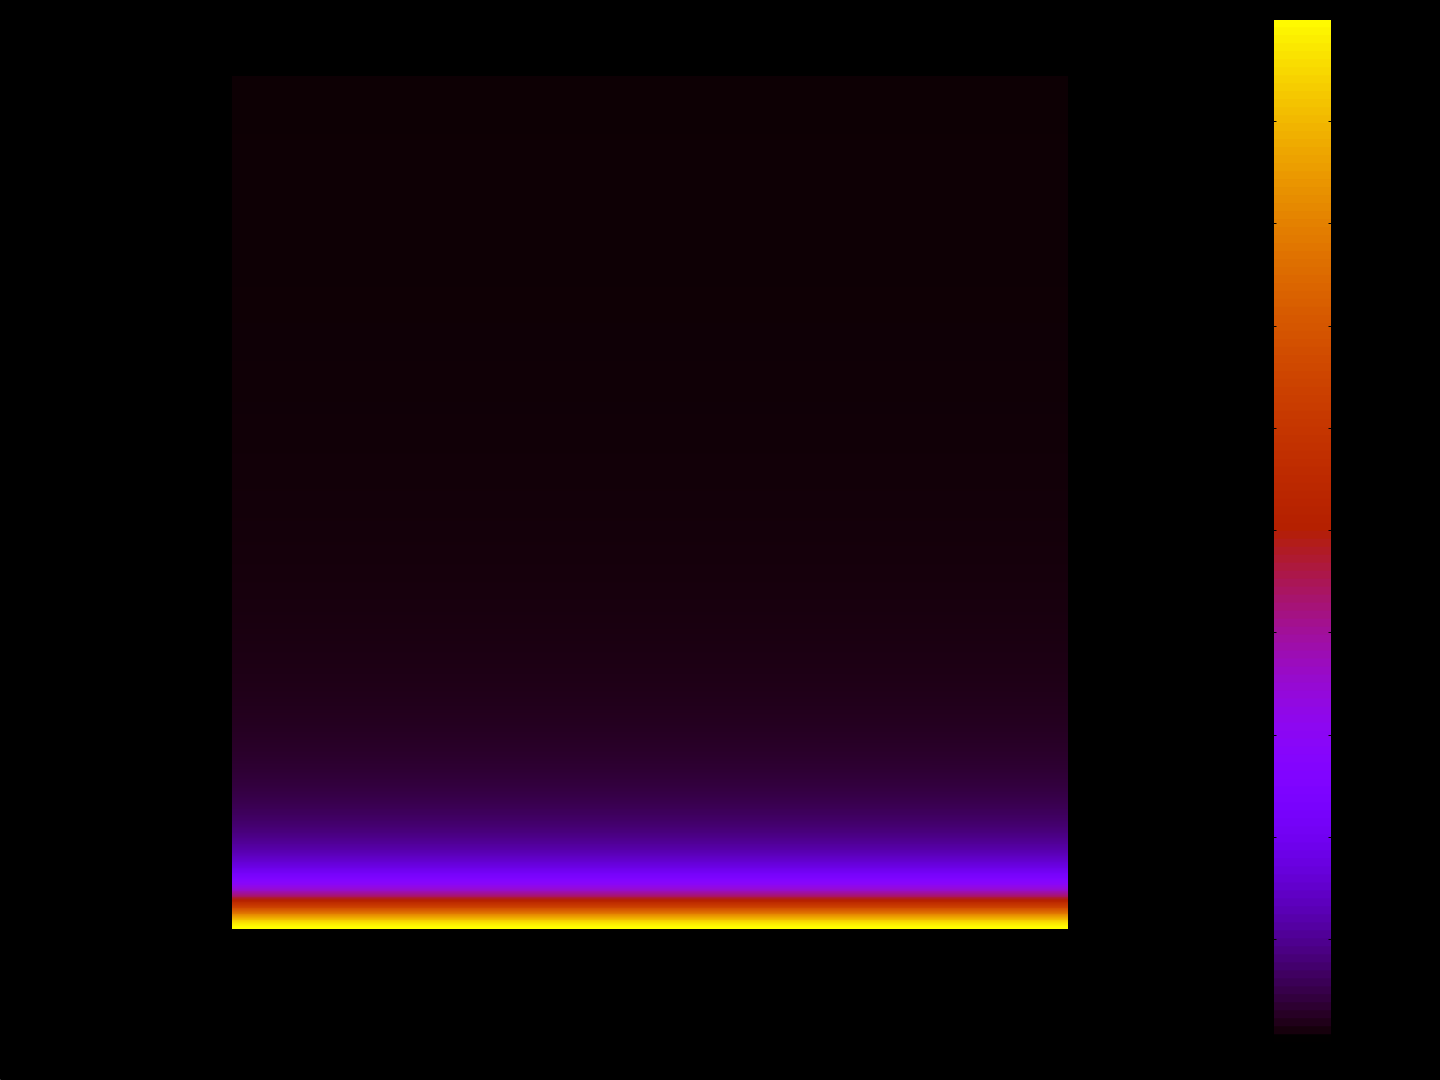
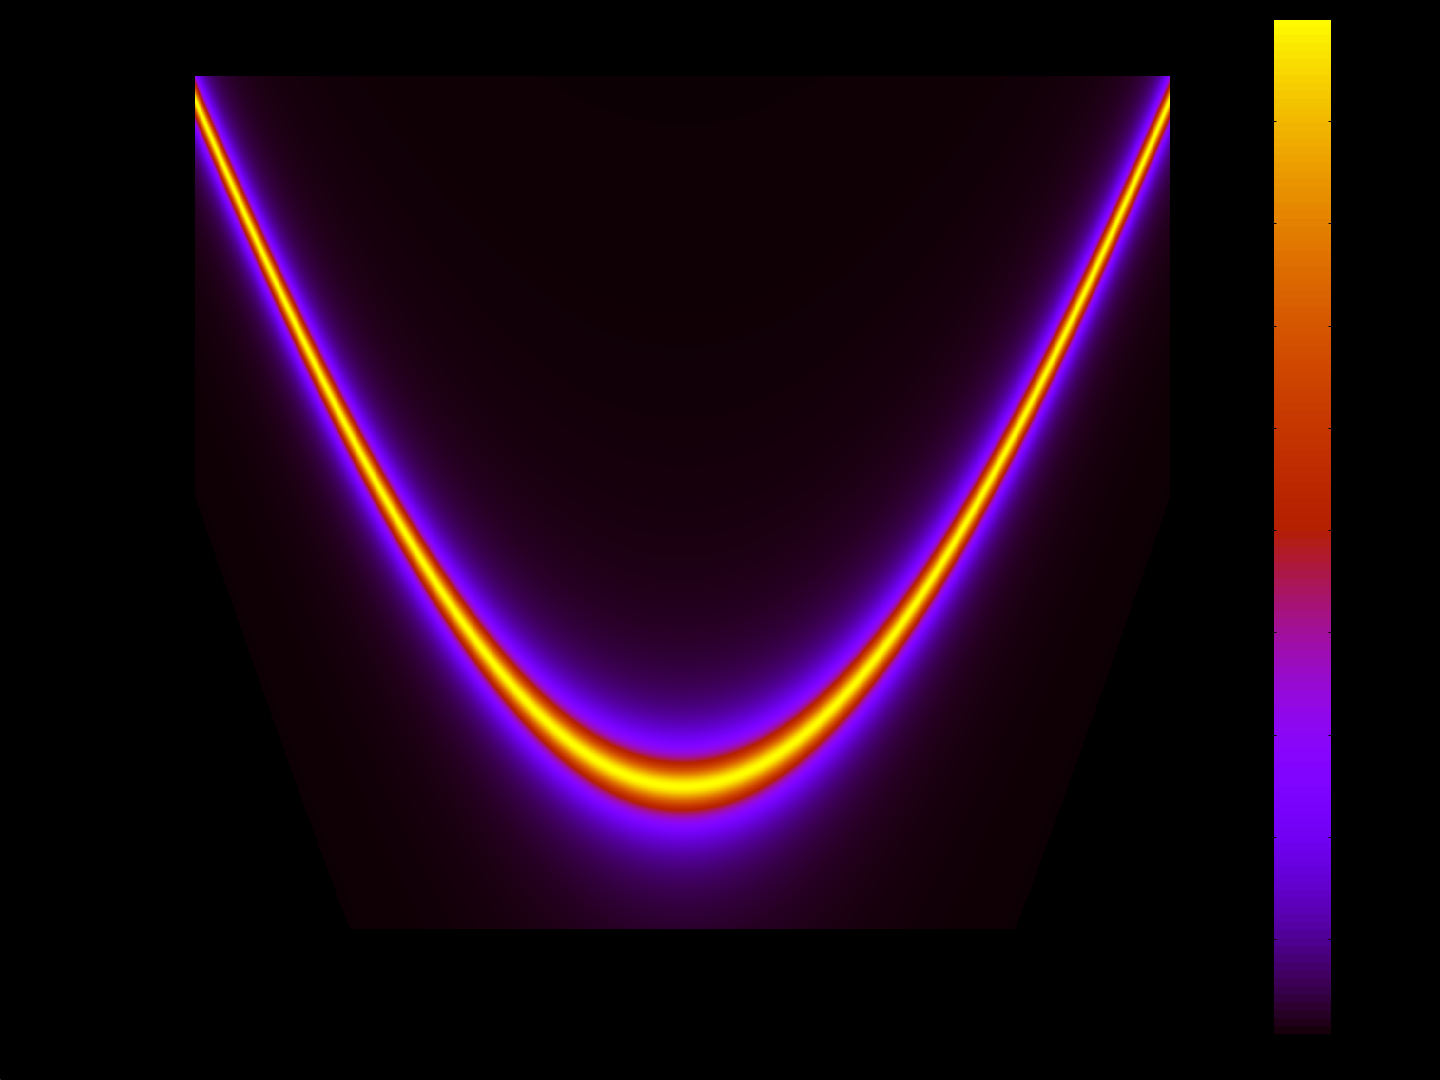
Started binning integration

Changed region(s): [[0.125, 0.0611, 0.8125, 0.8861]]

diff --git a/src/main.rs b/src/main.rs
@@ -7,32 +7,57 @@ fn main() {
         l_c: 0.0,
         c: 1.0 / 137.0,
         r: 0.9,
-        n_w_bins: 1000,
-        n_q_bins: 1000
+        n_w: 2000,
+        n_q: 2000,
+        n_w_bins: 200,
+        d_theta: 2.0 * PI,
+        q_range: (0.0,150.0),
+        w_range: (0.9, 1.5)
     };
 
     let w_0 = 1.0;
     let q_0 = w_0/prm.c;
     prm.l_c  = 2.0 * PI / q_0;
 
-    let omegas = Array1::linspace(1.0, 1.5,prm.n_w_bins);
-    let q_pars = Array1::linspace(0.0, 1.0, prm.n_q_bins);
+    let omegas = Array1::linspace(prm.w_range.0, prm.w_range.1,prm.n_w);
+    let q_pars = Array1::linspace(prm.q_range.0, prm.q_range.1, prm.n_q);
 
-    let mut dispersion: Array2<f64> = Array2::zeros((prm.n_w_bins,prm.n_q_bins));
+    let mut disp: Array2<f64> = Array2::zeros((prm.n_q,prm.n_w));
 
-    dispersion.indexed_iter_mut().for_each(|(ind, val)| {
-        let q_par = q_pars[ind.1];
-        let omega = omegas[ind.0];
+    disp.indexed_iter_mut().for_each(|(ind, val)| {
+        let q_par = q_pars[ind.0];
+        let omega = omegas[ind.1];
 
         *val = enhancement_function(omega, q_par, &prm);
     });
 
-    println!("test: {}", enhancement_function(1.0, 0.0, &prm));
+    let dispersion = disp.t().to_owned();
 
-    // _plot_disp(dispersion, omegas, q_pars);
+    println!("test: {}", enhancement_function(1.0, 100.0, &prm));
+
+    plot_disp(dispersion, omegas, q_pars);
 }
 
-fn _plot_disp (dispersion:Array2<f64>, omegas:Array1<f64>, q_pars: Array1<f64>) {
+fn _integrate_bin (mut bin:Array2<f64>, omegas_bin:Array1<f64>, q_pars_bin: Array1<f64>, prm:&Parameters) -> f64{
+    
+    let dq = (prm.q_range.1 - prm.q_range.0) / (prm.n_q as f64);
+    let dw = (prm.w_range.1 - prm.w_range.0) / (prm.n_w as f64);
+
+    bin.indexed_iter_mut().for_each(|(ind, val)| {
+        let q_par = q_pars_bin[ind.0];
+        let omega = omegas_bin[ind.1];
+        let q_z = (omega.powi(2) - prm.c*prm.c * q_par.powi(2)).sqrt();
+
+        let jacobian = q_par * omega / prm.c / q_z;
+
+        *val = val.clone() * jacobian;
+    });
+
+   bin.sum() * prm.d_theta * dq* dw
+
+}
+
+fn plot_disp (dispersion:Array2<f64>, omegas:Array1<f64>, q_pars: Array1<f64>) {
     let mut fig = Figure::new();
 
     let fname = "test.png";
@@ -51,7 +76,7 @@ fn _plot_disp (dispersion:Array2<f64>, omegas:Array1<f64>, q_pars: Array1<f64>) 
     // .set_y_label("", &[Font("Helvetica", 36.0), TextColor("white")])
     // .set_margins(&[MarginLeft(0.07),MarginBottom(0.07), MarginRight(0.87)])
     // .set_border(true, &[Bottom,Right,Left,Top], &[Color("white")])
-    .image(dispersion, q_pars.len(), omegas.len(), Some((0.0,0.0,q_pars.last().unwrap().clone(),omegas.last().unwrap().clone())), &[])
+    .image(dispersion, omegas.len(), q_pars.len(), Some((0.0,0.0,q_pars.last().unwrap().clone(),omegas.last().unwrap().clone())), &[])
     ;
 
     let message = fig.save_to_png(fname, 1440, 1080);
@@ -63,7 +88,11 @@ fn _plot_disp (dispersion:Array2<f64>, omegas:Array1<f64>, q_pars: Array1<f64>) 
 
 fn enhancement_function (omega:f64, q_par:f64, prm:&Parameters) -> f64 {
 
-    let q_z = (omega.powi(2) / prm.c.powi(2) + q_par.powi(2)).sqrt();
+    let q_z = (omega.powi(2) / prm.c.powi(2) - q_par.powi(2)).sqrt();
+
+    if q_z <  PI / prm.l_c {
+        return 0.0;
+    }
     // let jacobian = omega / prm.c.powi(2);
     let t = 1.0 - prm.r;
 
@@ -74,6 +103,10 @@ pub struct Parameters {
     pub l_c: f64,
     pub c: f64,
     pub r: f64,
+    pub n_w: usize,
+    pub n_q: usize,
     pub n_w_bins: usize,
-    pub n_q_bins: usize
+    pub d_theta: f64,
+    pub q_range: (f64,f64),
+    pub w_range: (f64,f64)
 }
